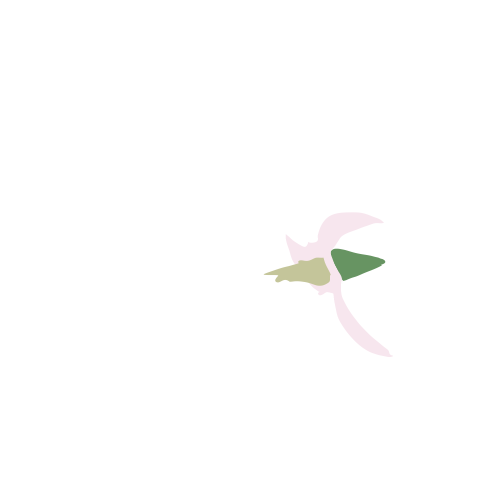
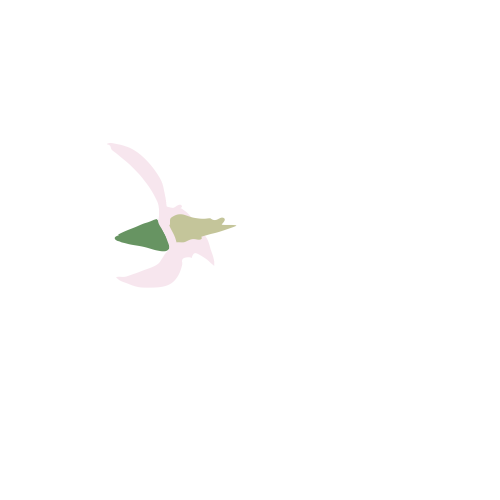
Final

Changed region(s): [[0.21, 0.27, 0.48, 0.6], [0.54, 0.42, 0.78, 0.72]]

diff --git a/my_phenakistoscope.js b/my_phenakistoscope.js
@@ -3,11 +3,11 @@ let leafSize1 = 80; // Initial size of the first leaf
 let leafSize2 = 40; // Initial size of the second leaf
 
 function setup_pScope(pScope){
-  pScope.output_mode(STATIC_DISK);
+  pScope.output_mode(ANIMATED_DISK);
   pScope.scale_for_screen(true);
   pScope.draw_layer_boundaries(false);
   pScope.draw_slits(false);
-  pScope.set_direction(CW);
+  pScope.set_direction(CCW);
   pScope.set_slice_count(SLICE_COUNT);
 
   pScope.load_image("branchring", "png");
@@ -51,24 +51,24 @@ function leaf(x, y, animation, pScope){
 
   // First leaf
   fill(97, 153, 90);
-  drawLeaf(-230, 270, leafSize1);
+  drawLeaf(230, 270, leafSize1);
 
   // Second leaf
   fill(65, 110, 59);
   drawLeaf(200, -300, leafSize2);
 
   // Increase the size for the next frame and add noise for subtle movement
-  leafSize1 += 0.45; // Adjust growth rate for the first leaf
-  leafSize2 += 0.3;
+  leafSize1 += 0.05; // Adjust growth rate for the first leaf
+  leafSize2 += 0.05;
   
-  let leaf1Noise = noise(frameCount * 0.5) * 2 - 1; // Map noise to [-1, 1]
-  let leaf2Noise = noise((frameCount + 100) * 0.5) * 2 - 1; // Different seed for the second leaf
+  let leaf1Noise = noise(frameCount * 0.05) * 2 - 1; // Map noise to [-1, 1]
+  let leaf2Noise = noise((frameCount + 100) * 0.05) * 2 - 1; // Different seed for the second leaf
   
   // Apply noise to leaf positions
-  let leaf1X = 150 + leaf1Noise * 5;
-  let leaf1Y = 280 + leaf1Noise * 5;
+  let leaf1X = 500 + leaf1Noise * 5;
+  let leaf1Y = 430 + leaf1Noise * 5;
   
-  let leaf2X = 300 + leaf2Noise * 5;
+  let leaf2X = 580 + leaf2Noise * 5;
   let leaf2Y = 280 + leaf2Noise * 5;
   
   // Draw leaves with noise-based positions
@@ -99,6 +99,7 @@ function ring(x,y, animation, pScope){
 }
 
 function lemon(x,y,animation,pScope){
+  translate(150, 0)
   scale(1);
   pScope.draw_image_from_sequence("lemon", 550, -200, animation.frame); 
 }
